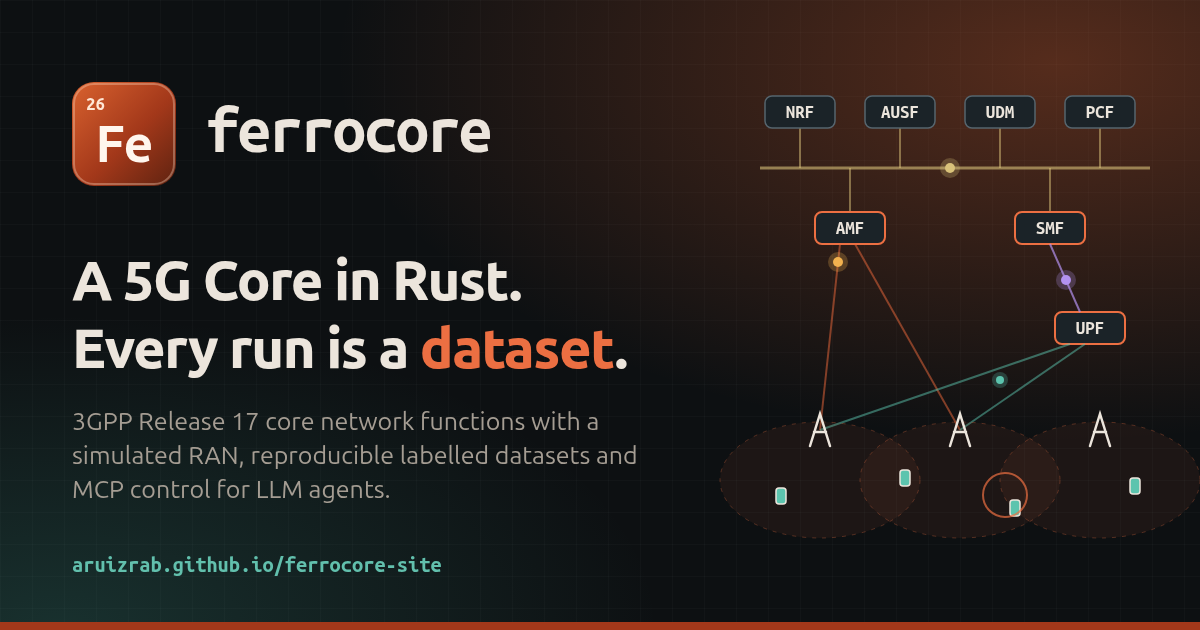
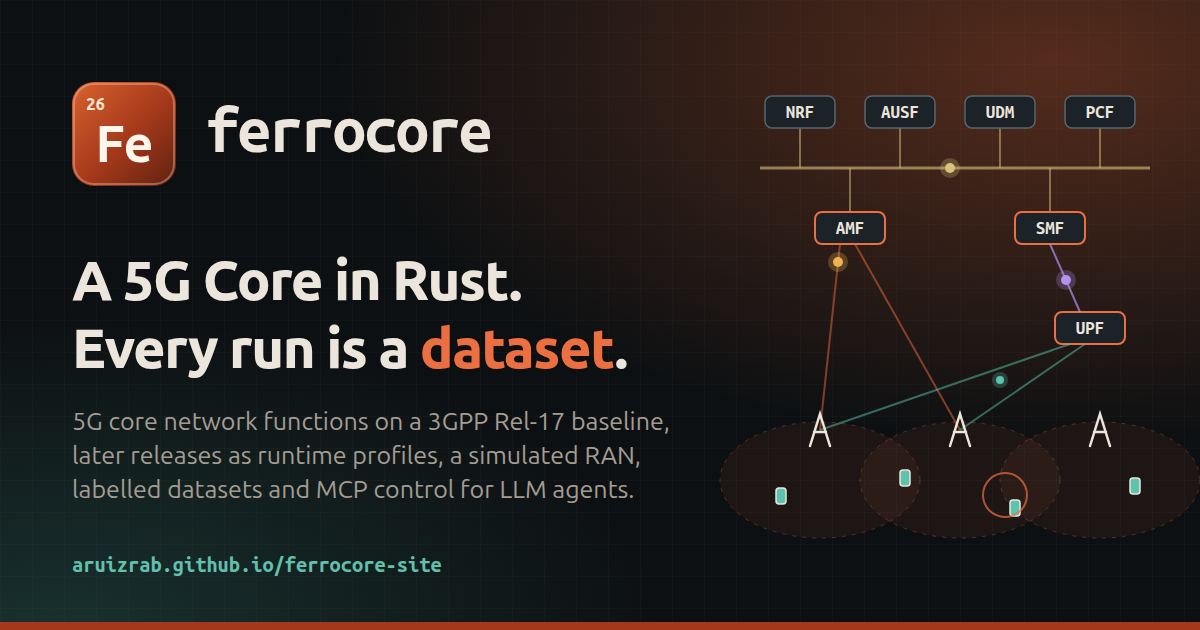
docs: README progress text and social card match the current state
The social card names the Rel-17 baseline and runtime release profiles; the README no
longer says progress.json is a placeholder.

Claude-Session: https://claude.ai/code/session_01UskiHsPgx9auycciEPSXBp

diff --git a/README.md b/README.md
@@ -46,7 +46,7 @@ python3 .github/scripts/check_site.py
 
 ## How `progress.json` is updated
 
-The file in this repo starts as a placeholder (`"placeholder": true`), and the page shows a "Placeholder data" banner while that flag is set.
+The file holds real data published by ferrocore's CI. The schema keeps a `"placeholder"` flag: when it is `true` (as in the very first version of the file, before CI published), the page shows a "Placeholder data" banner.
 
 ferrocore's CI computes progress with an interim (v0) script on pushes to its `main` and `feat/**` branches and on a schedule, and commits the result here as `progress.json`, authenticated with a deploy key that has write access to this repository (the private half is stored in ferrocore as the `SITE_DEPLOY_KEY` secret). It commits only when the numbers change, not when only `generatedAt` or `commit` would. That push to `main` triggers the Pages workflow, which redeploys the site. The official metric (ferrocore feature F051) will replace the v0 script later and keep this schema.
 
